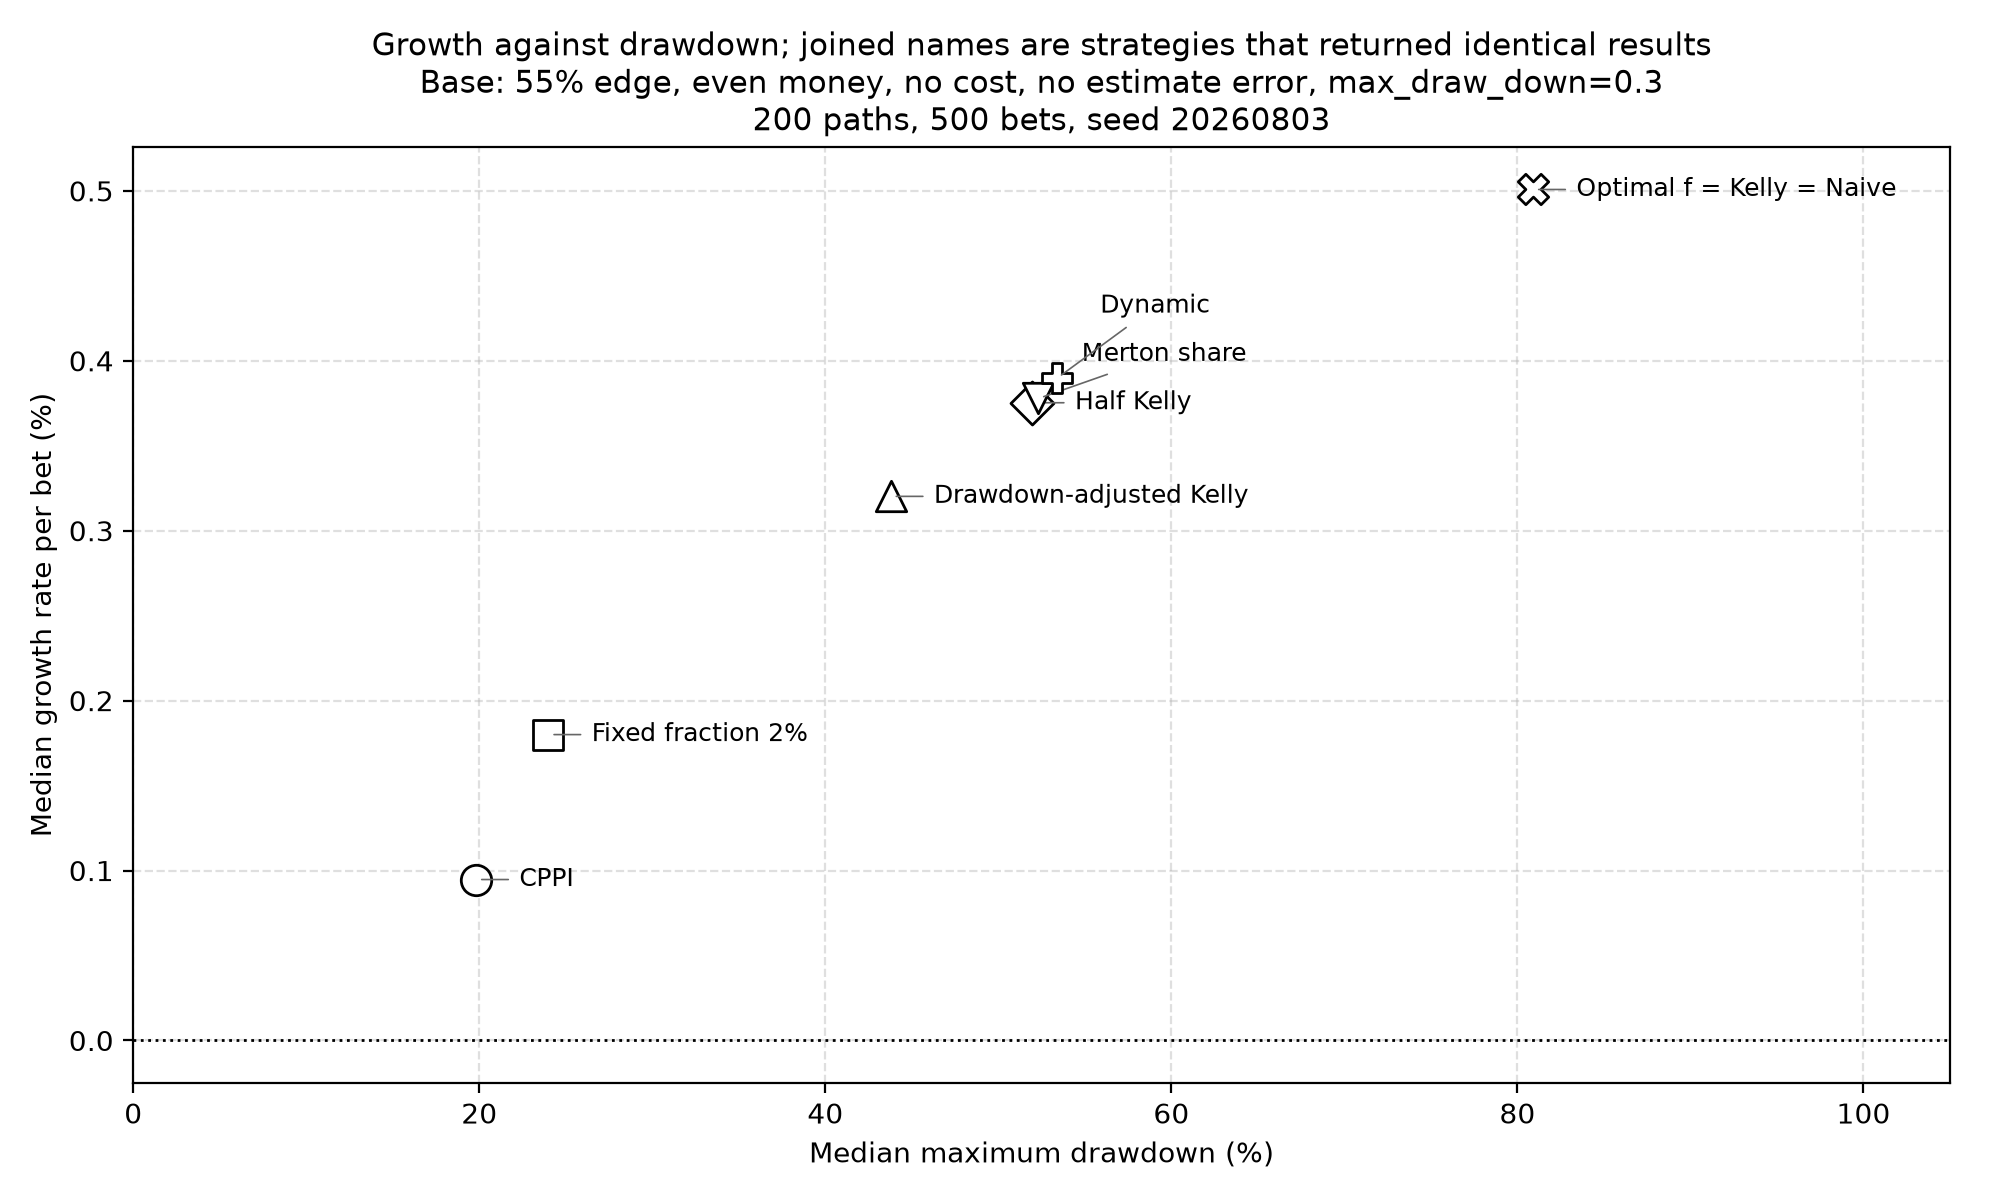
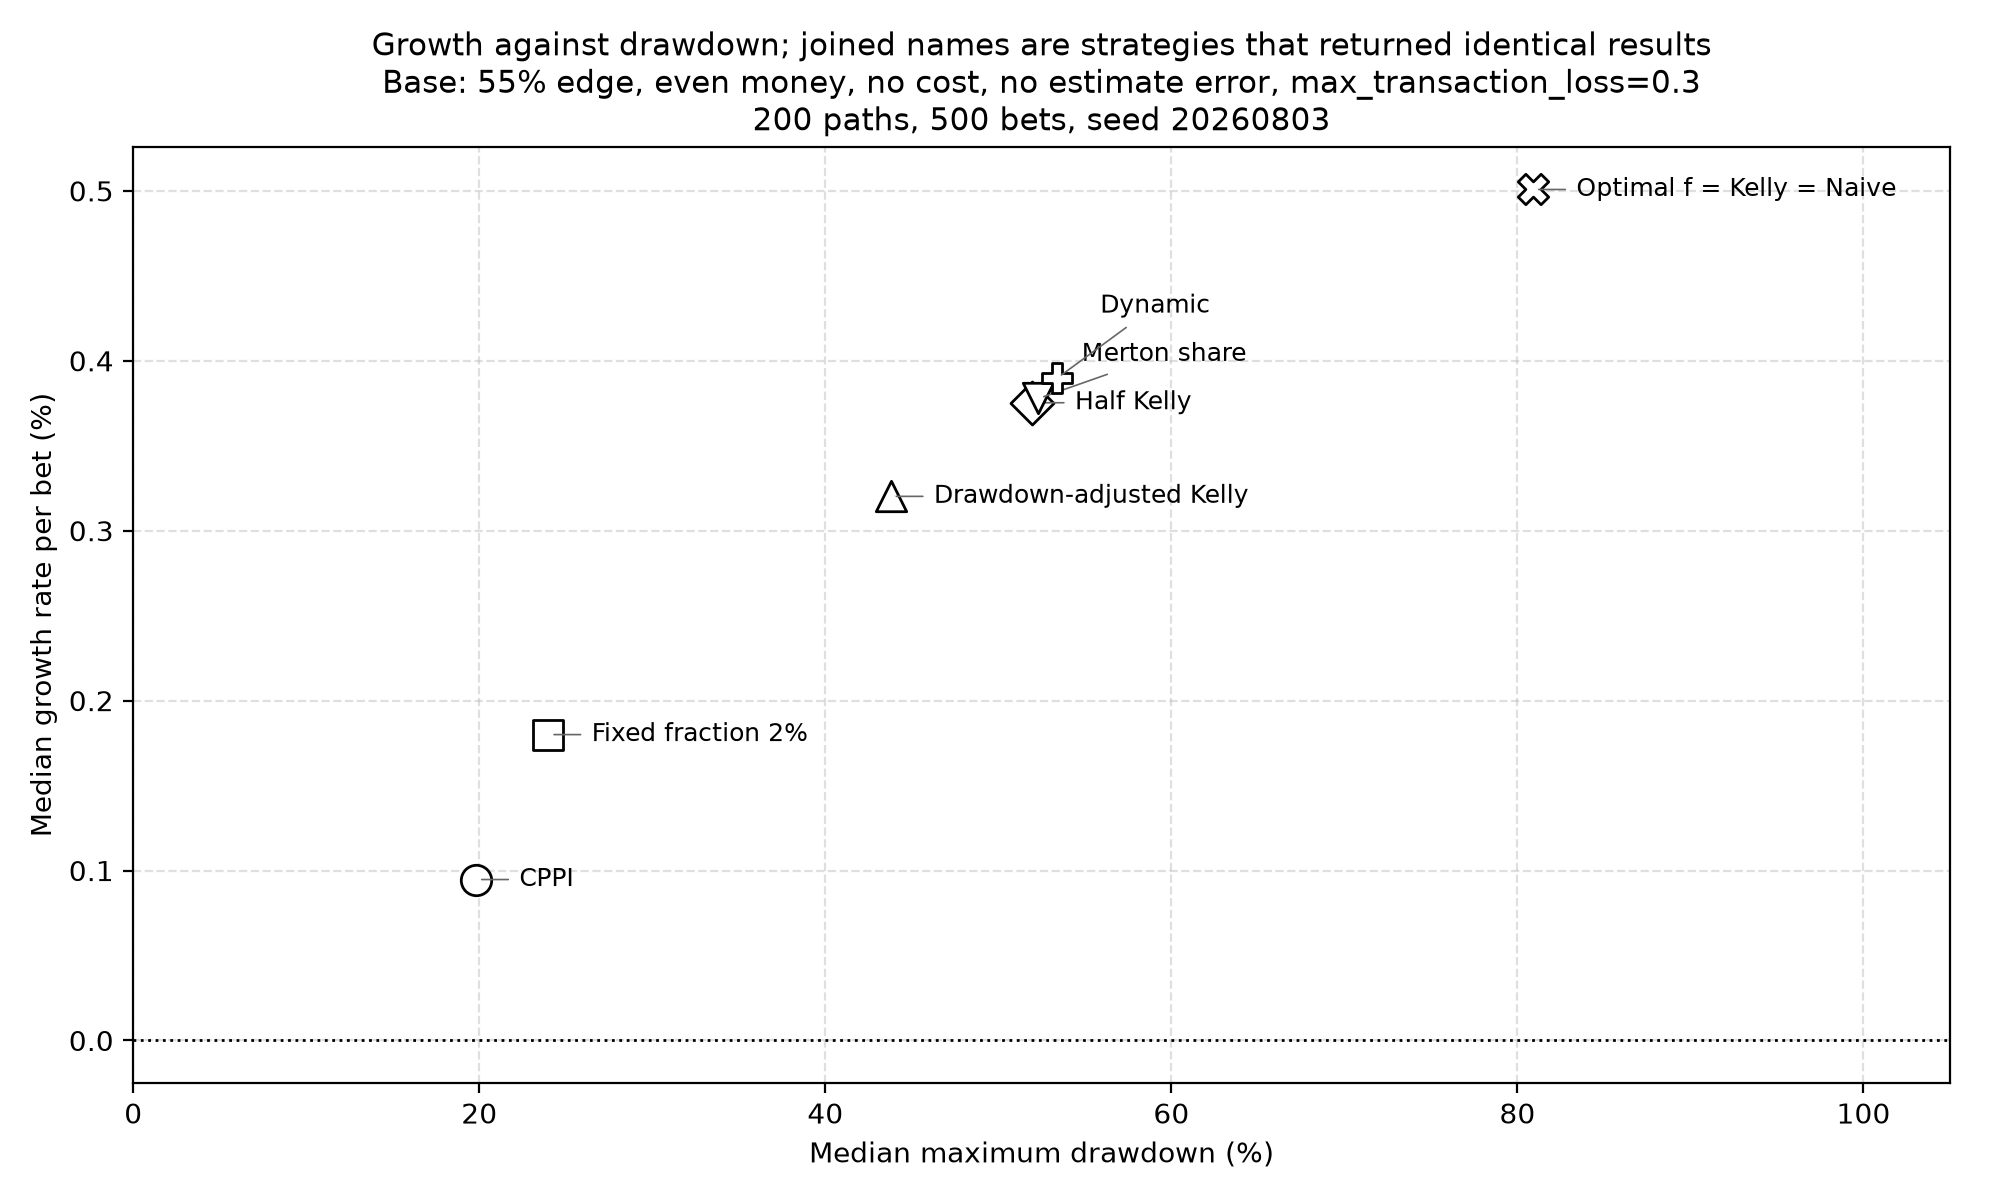
chore: integrate the round-2 quality window into the release branch
Final integration pass before release review:

- Fix four stale default claims in the docs: min_probability is no
  longer "(0.5 by default)" — it defaults to None (edge-aware sizing)
  in kelly-criterion-python.rst and keeks-vs-betting-math-kit.rst, and
  the benchmark doc's max_transaction_loss = 0.3 is an explicit
  scenario input, not the library default (None, uncapped).
- Fix a stale autodoc target the -W docs gate caught:
  keeks.allocation.plots.drawdown -> drawdown_history.
- README: add a Contract checks link and a keeks.checks mention for
  contributors, and document the docs-build recipe.
- make docs: install docs/requirements.txt before building, mirroring
  the docs CI recipe — the wabi theme comes from a git URL, not PyPI
  (a PyPI dependency for it was tried and reverted in #126; the theme
  is not published there).
- CHANGELOG: restructure the release section as v0.9.0 with the
  breaking-changes block first (renames, removals, unified settlement
  hook, new None defaults, enforced contracts, public hyperparameters
  and the weights_ convention); bump version.py to 0.9.0.
- Regenerate benchmarks/output so the committed CSV and charts carry
  max_transaction_loss instead of the retired max_draw_down names
  (numeric columns byte-identical to the previous run).

Changed region(s): [[0.186, 0.0617, 0.837, 0.0925]]

diff --git a/version.py b/version.py
@@ -1,1 +1,1 @@
-__version__ = "0.8.0"
+__version__ = "0.9.0"

diff --git a/CHANGELOG.md b/CHANGELOG.md
@@ -1,5 +1,20 @@
-Unreleased
-==========
+v0.9.0
+======
+
+**Breaking changes — naming and contract sweep (one meaning per name), new defaults, and enforced contracts:**
+
+ * Strategy sizing parameters renamed: `transaction_cost` → `transaction_cost_rate` everywhere a per-unit fraction of stake is meant (all binary strategies, the multi-outcome surface, and `BinaryBetsModel`), so the fraction and the flat fee no longer share near-identical names
+ * Simulator and settlement fees renamed: `transaction_costs` → `fee_per_bet` everywhere a flat per-bet/per-period bankroll amount is meant (all six simulators), and `BinaryBetsModel`'s fraction parameter renamed to `transaction_cost_rate`
+ * `BankRoll`'s per-removal cap renamed: `max_draw_down` → `max_transaction_loss` (semantics unchanged — the name now describes the actual behavior); `DrawdownAdjustedKelly`'s `max_acceptable_drawdown` unified to the same name
+ * `normalize_probabilities` renamed to `validate_probabilities` — it validated and never renormalized; the name stops promising a normalization it never performed
+ * `BankRoll`'s duplicate settlement channels removed: `add_funds`/`remove_funds` are gone; use `deposit`/`withdraw` (identical behavior)
+ * Settlement hooks unified to one contract across all simulators: `record_settlement(won, realized_returns)` — `won` holds one per-option outcome flag (`True` win / `False` loss / `None` declined-or-void) and `realized_returns` one signed net return per option. This replaces `record_result(won, return_pct)` on binary strategies, `record_settlement(won_leg, return_pcts)` on the repeated multi-outcome simulator, and the unary `record_settlement(realized_returns)` on the allocation simulator
+ * Plot helper `drawdown` renamed to `drawdown_history` (it draws one history; the dict-of-paths helper is `bankroll_paths`), and `BankRoll`'s `amt` parameters are now `amount`
+ * The README's allocation-bridge example now uses decimal-odds payoffs (its previous net-win values settled into a dead all-cash portfolio), and the payoff-convention conflict between the binary strategies (net win per unit staked) and the multi-outcome/allocation layers (decimal odds) is cross-referenced in the `KellyCriterion`, `BinaryBetsModel`, and base-class docstrings
+ * The online allocators' hyperparameters are now public — `learning_rate`, `epsilon`, and the `weights`/`option_count` properties — replacing the private `_weights`/`_learning_rate`/`_epsilon` attributes, and allocators expose their fitted state as `weights_` (sklearn's fitted-attribute convention) alongside the primary `.weights`
+ * Strategy contracts are enforced at the base classes: `BaseAllocationStrategy.evaluate` and `BaseMultiOutcomeStrategy.evaluate` now run the returned weight/stake vector through the same validators the simulator boundary applies, so a subclass handing back an over-budget vector — e.g. `(0.6, 0.6)` — fails at the call site with a `ValueError` naming the expectation and the received values, instead of passing silently until settlement
+ * `KellyCriterion` sizing is edge-aware by default: `min_probability` now defaults to `None`, so a bet the Kelly formula itself sizes positively is placed instead of being silently zeroed by the old `0.5` probability gate (a 2:1 payoff at 40% win probability now sizes its ~9.5% Kelly fraction); an explicitly configured `min_probability` still refuses below-gate bets, and emits a `UserWarning` naming the suppressed fraction whenever it zeroes a formula-positive bet, while formula-negative bets keep refusing silently
+ * `BankRoll` no longer caps withdrawals by default: `max_transaction_loss` defaults to `None` (no per-removal cap) because the old `0.3` default vetoed full-Kelly settlements and turned simulations into silent no-ops; passing a fraction keeps the cap
 
 **Estimator introspection and typing (sklearn conventions):**
 
@@ -11,25 +26,19 @@ Unreleased
  * `CPPIStrategy` stores `initial_bankroll` as a public attribute, so constructor introspection reads it back
  * Sphinx documentation gains a contract-checks page for the `keeks.checks` harness
 
-**Breaking changes — naming and contract sweep (one meaning per name):**
+**Loud failures:**
 
- * Strategy sizing parameters renamed: `transaction_cost` → `transaction_cost_rate` everywhere a per-unit fraction of stake is meant (all binary strategies, the multi-outcome surface, and `BinaryBetsModel`), so the fraction and the flat fee no longer share near-identical names
- * Simulator and settlement fees renamed: `transaction_costs` → `fee_per_bet` everywhere a flat per-bet/per-period bankroll amount is meant (all six simulators), and `BinaryBetsModel`'s fraction parameter renamed to `transaction_cost_rate`
- * `BankRoll`'s per-removal cap renamed: `max_draw_down` → `max_transaction_loss` (semantics unchanged — the name now describes the actual behavior); `DrawdownAdjustedKelly`'s `max_acceptable_drawdown` unified to the same name
- * `normalize_probabilities` renamed to `validate_probabilities` — it validated and never renormalized; the name stops promising a normalization it never performed
- * `BankRoll`'s duplicate settlement channels removed: `add_funds`/`remove_funds` are gone; use `deposit`/`withdraw` (identical behavior)
- * Settlement hooks unified to one contract across all simulators: `record_settlement(won, realized_returns)` — `won` holds one per-option outcome flag (`True` win / `False` loss / `None` declined-or-void) and `realized_returns` one signed net return per option. This replaces `record_result(won, return_pct)` on binary strategies, `record_settlement(won_leg, return_pcts)` on the repeated multi-outcome simulator, and the unary `record_settlement(realized_returns)` on the allocation simulator
- * Plot helper `drawdown` renamed to `drawdown_history` (it draws one history; the dict-of-paths helper is `bankroll_paths`), and `BankRoll`'s `amt` parameters are now `amount`
- * The README's allocation-bridge example now uses decimal-odds payoffs (its previous net-win values settled into a dead all-cash portfolio), and the payoff-convention conflict between the binary strategies (net win per unit staked) and the multi-outcome/allocation layers (decimal odds) is cross-referenced in the `KellyCriterion`, `BinaryBetsModel`, and base-class docstrings
-
- * Strategy contracts are enforced at the base classes: `BaseAllocationStrategy.evaluate` and `BaseMultiOutcomeStrategy.evaluate` now run the returned weight/stake vector through the same validators the simulator boundary applies, so a subclass handing back an over-budget vector — e.g. `(0.6, 0.6)` — fails at the call site with a `ValueError` naming the expectation and the received values, instead of passing silently until settlement
- * New `keeks.checks` module (re-exported at the package root): `check_strategy`, `check_allocation_strategy`, and `check_model` are runnable contract harnesses on the check_estimator pattern — probe calls that pass silently for a contract-honest implementation and raise a `ValueError` naming the violated expectation and the received value otherwise, covering fraction/weight validity, nonpositive-bankroll behavior, hook callability, draw-shape and option-count stability, seeded determinism, and `moments()` self-consistency
- * `BaseStrategy` now documents the simulator-facing hooks — `update_bankroll(new_bankroll)` and `record_settlement(won, realized_returns)` — with exact signatures, when each simulator fires them, the `RuinError` refuse-and-stop settlement policy around them, and the fact that omitting them breaks nothing (they are optional; an absent hook is skipped)
- * `AllocationResult` gains an `all_cash_reason` field, populated by `MeanCVaR.optimize()` when the unit-risk-aversion objective's one-for-one trade-off holds the full-cash corner (the all-cash outcome on daily-frequency market data the ETF example footnotes), so the result object itself carries the explanation instead of returning a bare `(−0.0, −0.0)`
- * `KellyCriterion` sizing is edge-aware by default: `min_probability` now defaults to `None`, so a bet the Kelly formula itself sizes positively is placed instead of being silently zeroed by the old `0.5` probability gate (a 2:1 payoff at 40% win probability now sizes its ~9.5% Kelly fraction); an explicitly configured `min_probability` still refuses below-gate bets, and emits a `UserWarning` naming the suppressed fraction whenever it zeroes a formula-positive bet, while formula-negative bets keep refusing silently
- * `BankRoll` no longer caps withdrawals by default: `max_transaction_loss` defaults to `None` (no per-removal cap) because the old `0.3` default vetoed full-Kelly settlements and turned simulations into silent no-ops; passing a fraction keeps the cap
  * `RuinError` messages now carry the numbers a refusal needs — the attempted amount, the configured limit, and the current funds — for both the drawdown and the bankruptcy causes
  * Every simulator re-reports a refused settlement as a `UserWarning` carrying the attempted amount, the configured limit, and the current funds before stopping, so an early-stopped run is never silent — the three binary simulators, both multi-outcome simulators, and the allocation simulator
+
+**Contributor contracts:**
+
+ * New `keeks.checks` module (re-exported at the package root): `check_strategy`, `check_allocation_strategy`, and `check_model` are runnable contract harnesses on the check_estimator pattern — probe calls that pass silently for a contract-honest implementation and raise a `ValueError` naming the violated expectation and the received value otherwise, covering fraction/weight validity, nonpositive-bankroll behavior, hook callability, draw-shape and option-count stability, seeded determinism, and `moments()` self-consistency
+ * `BaseStrategy` now documents the simulator-facing hooks — `update_bankroll(new_bankroll)` and `record_settlement(won, realized_returns)` — with exact signatures, when each simulator fires them, the `RuinError` refuse-and-stop settlement policy around them, and the fact that omitting them breaks nothing (they are optional; an absent hook is skipped)
+
+**The allocation layer:**
+
+ * `AllocationResult` gains an `all_cash_reason` field, populated by `MeanCVaR.optimize()` when the unit-risk-aversion objective's one-for-one trade-off holds the full-cash corner (the all-cash outcome on daily-frequency market data the ETF example footnotes), so the result object itself carries the explanation instead of returning a bare `(−0.0, −0.0)`
  * New `keeks.allocation` package sizes portfolios across N distribution-valued options — a mean vector and covariance, a scenario matrix, keeks binary bets, fitted parametric marginals, or a user sampler — under one long-only weight contract: `evaluate(current_bankroll)` returns one weight per option, each in `[0, 1]` and summing to at most `1 + PROBABILITY_SUM_TOLERANCE`, the residual being cash held at zero return; descriptors bind at construction and `optimize()` returns an `AllocationResult` (weights plus solver diagnostics: objective, convergence, iterations, estimated expected log growth, volatility) alongside the simulator-facing tuple
  * Moment-based allocators: `MeanVariance` (risk aversion λ = 1 is the second-order Kelly allocation), `GlobalMinimumVariance`, `MaximumSharpe` (Cornuéjols–Tütüncü convex reformulation of the tangency portfolio), `MaximumDiversification`, and `RiskBudgeting` (Spinu's convex objective with cyclical coordinate descent; equal budgets give equal risk contribution), plus `RiskAversionScaling`, the wrapper that shrinks any allocator toward cash — the fractional-Kelly dial (κ ↦ CRRA γ = 1/κ)
  * Scenario- and structure-based allocators: `MeanCVaR` solves the Rockafellar–Uryasev linear program over scenario rows (sample-CVaR is defined without finite variance; the shipped unit-risk-aversion objective trades expected return against the tail's expected loss one-for-one, which holds full cash on daily-frequency market data), and `HierarchicalRiskParity` clusters correlation distance, quasi-diagonalizes, and bisects recursively with inverse-variance splits — it never inverts the covariance matrix

diff --git a/docs/source/strategy_benchmark.rst b/docs/source/strategy_benchmark.rst
@@ -84,8 +84,9 @@ rates separately.
 
 **Fixed inputs.** $1,000 starting bankroll, 500 bets, 200 paths, even money
 (``payoff = 1.0``, ``loss = 1.0``), ``percent_bettable = 1.0``. The base scenario
-is a 55% win probability, a zero cost input, no estimate error, and the library's
-default ``max_transaction_loss = 0.3``.
+is a 55% win probability, a zero cost input, no estimate error, and an explicit
+``max_transaction_loss = 0.3`` — the library default is ``None`` (no
+per-settlement cap), so the benchmark passes the cap it studies.
 
 The strategies are configured once each: full Kelly; fractional Kelly at 0.5;
 drawdown-adjusted Kelly at ``max_transaction_loss = 0.2``; Optimal f with
@@ -224,7 +225,7 @@ that makes it behave as a switch rather than a dial:
          with four distinct hatch patterns. Every bar is either 0 percent or 100
          percent. At a cap of 0.03 all strategies except Fixed fraction 2% stop on
          every path. At a cap of 0.08 only Kelly, Optimal f and Naive stop, again
-         on every path. At the default cap of 0.30 and with no cap at
+         on every path. At a cap of 0.30 and with no cap at
          all, no strategy stops and every bar is zero.
    :width: 100%
 
@@ -234,8 +235,9 @@ Every bar is either zero or full height. A strategy stakes a roughly fixed
 fraction, so the cap either sits above that fraction and never binds, or sits
 below it and kills the run on the first losing bet — at a cap of 0.08 the Kelly
 group stops after a median of 2 bets.
-The default ``max_transaction_loss = 0.3`` never binds for any of the
-nine at a 55% edge, because none of them stakes more than 10%.
+The explicit ``max_transaction_loss = 0.3`` never binds for any of the
+nine at a 55% edge, because none of them stakes more than 10% — the library
+default is ``None`` (uncapped), which is the study's "no cap" bar.
 
 There is a second-order trap: a stopped run has a *lower* measured maximum
 drawdown than a completed one, because the losing settlement is refused rather

diff --git a/README.md b/README.md
@@ -279,6 +279,7 @@ uv run python examples/allocation_etfs.py --refresh  # re-download via yfinance
 - [Simulators](https://keeks.mcginniscommawill.com/simulators.html)
 - [Portfolio allocation](https://keeks.mcginniscommawill.com/allocation.html)
 - [Allocation visualization helpers](https://keeks.mcginniscommawill.com/allocation_plots.html)
+- [Contract checks](https://keeks.mcginniscommawill.com/checks.html)
 - [Nine-strategy risk benchmark](https://keeks.mcginniscommawill.com/strategy_benchmark.html)
 - [`examples/strategy_comparison.py`](examples/strategy_comparison.py)
 - [`examples/st_petersburg_paradox.py`](examples/st_petersburg_paradox.py)
@@ -315,5 +316,14 @@ Build the documentation with:
 ```bash
 make docs
 ```
+
+`make docs` first installs `docs/requirements.txt` — Sphinx plus the `wabi`
+theme, which is pulled from a git URL rather than PyPI — mirroring the docs
+CI recipe.
+
+Extending a strategy, allocator, or model? Verify it against the library's
+contracts before opening a PR: `keeks.checks` ships runnable harnesses
+(`check_strategy`, `check_allocation_strategy`, `check_model`) — see the
+[Contract checks](https://keeks.mcginniscommawill.com/checks.html) page.
 
 Keeks is available under the [MIT License](LICENSE.md).

diff --git a/docs/source/kelly-criterion-python.rst b/docs/source/kelly-criterion-python.rst
@@ -128,9 +128,13 @@ what the bankroll can safely support. ``KellyCriterion.evaluate()`` applies
 two adjustments after the formula:
 
 - **Zero floor.** If the win probability is below the strategy's
-  ``min_probability`` (0.5 by default), or if the cost-adjusted payoff or
-  loss is not positive, the strategy returns ``0.0`` rather than a negative
-  or undefined fraction.
+  ``min_probability``, or if the cost-adjusted payoff or loss is not
+  positive, the strategy returns ``0.0`` rather than a negative or
+  undefined fraction. ``min_probability`` defaults to ``None`` — the gate
+  is edge-aware, so any bet the Kelly formula itself prices positively is
+  placed. Setting an explicit ``min_probability`` refuses below-gate bets
+  and emits a ``UserWarning`` naming the suppressed fraction whenever the
+  gate zeroes a bet the formula would size.
 - **Maximum-safe-bet clamp.** The result is capped at
   ``get_max_safe_bet(current_bankroll)``, the largest stake that cannot drive
   the bankroll negative given ``loss`` and ``transaction_cost_rate``. A

diff --git a/docs/source/keeks-vs-betting-math-kit.rst b/docs/source/keeks-vs-betting-math-kit.rst
@@ -197,8 +197,10 @@ resulting probability and payoff to Keeks to compare sizing policies.
 
 Two cautions that apply to any such pairing. First, Keeks does not check that a
 strategy's payoff and loss agree with the simulator's, so pass the same values
-to both. Second, Kelly-family strategies in Keeks return ``0.0`` below a
-``min_probability`` of 0.5 by default, regardless of payoff.
+to both. Second, Kelly-family strategies in Keeks refuse bets their formula
+prices negatively: ``min_probability`` defaults to ``None`` (edge-aware
+sizing), not a fixed 0.5 probability floor — a below-0.5 win probability is
+still staked when the payoff makes it positive expected value.
 
 .. _bmk-sources:
 

diff --git a/docs/source/allocation_plots.rst b/docs/source/allocation_plots.rst
@@ -23,7 +23,7 @@ Bankroll growth and drawdown
 
 .. autofunction:: keeks.allocation.plots.bankroll_paths
 
-.. autofunction:: keeks.allocation.plots.drawdown
+.. autofunction:: keeks.allocation.plots.drawdown_history
 
 Weights and risk
 ----------------
